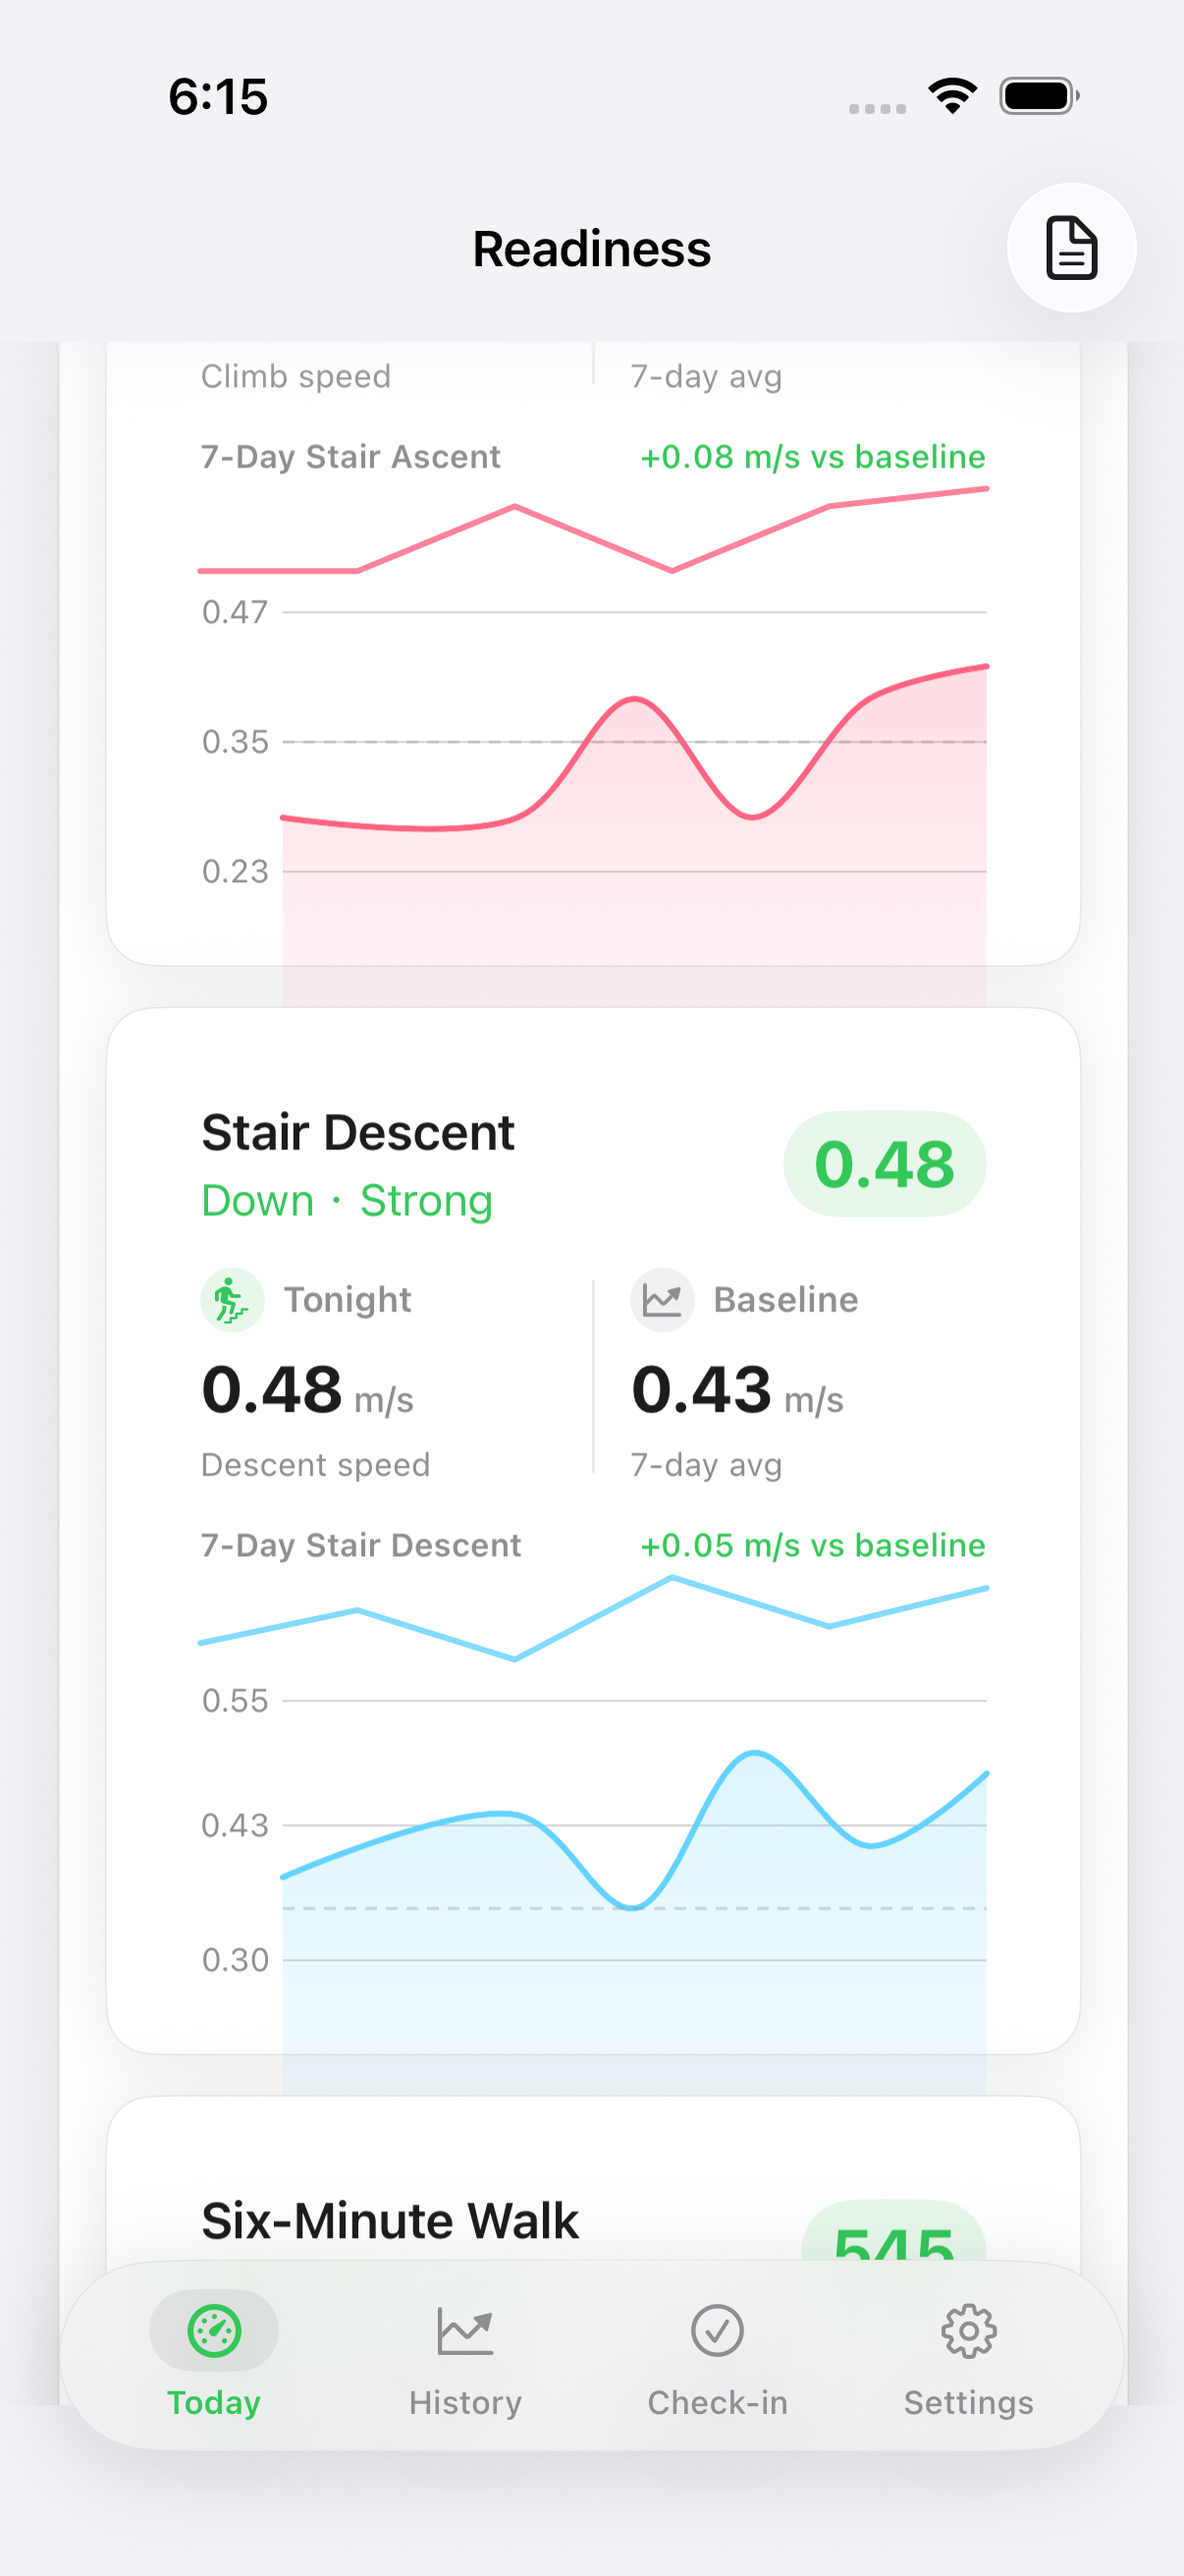
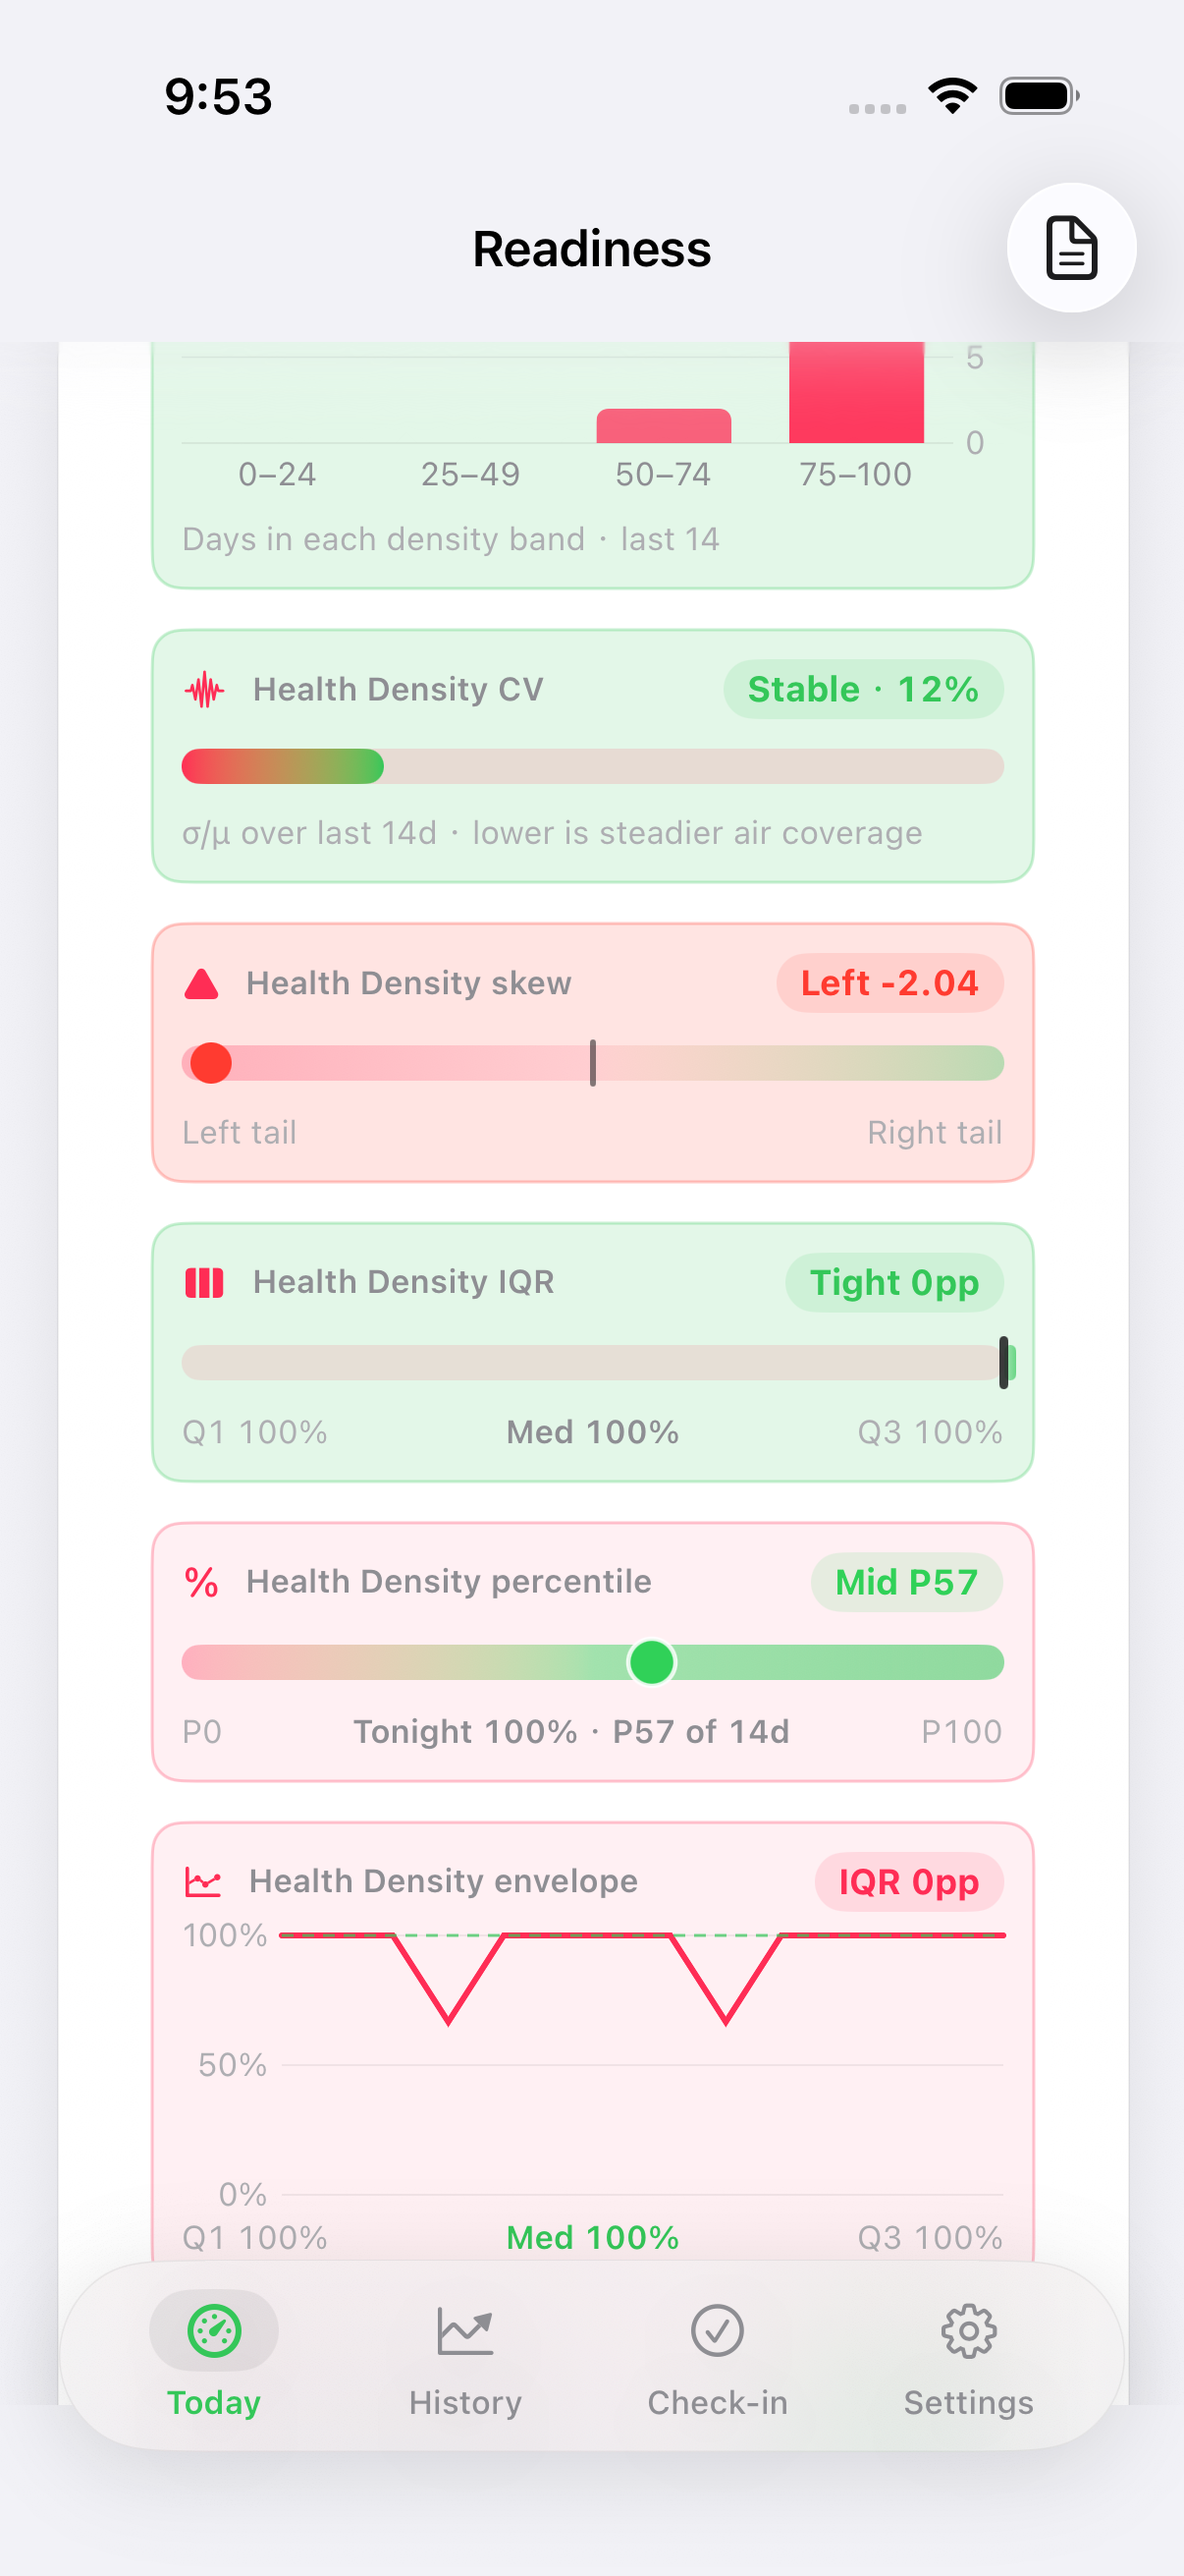
Honest #804: Density IQR meter (WHOOP wells)
Chrome-only restyle of the existing fitbit.air.density.iqr /
health.air.density.iqr container. The Q1–Q3 band already encodes
the IQR reading itself (accent track, tone-filled Q1–Q3 capsule,
and primary-text median tick); that band is left intact (not
flattened to a uniform 8/14 wash). Idle (no density > 0 in the
14d window) ghost/hairline 8/28 secondaryText; active complete
(has density, Tight, iqrPP <= 12) 14/28 optimal; active
negative (Wide, iqrPP > 22) 14/28 strain; else/partial
(Steady, 12 < iqrPP <= 22) 14/28 accent.
The verb capsule keeps its existing tone. Copy, accessibilityIdentifier,
accessibilityLabel, IQR math, and READY formula unchanged.

UITest testDensityIQR passed 128.506s, 0
failures (observer 139.397s) on iPhone 17 Pro.
testReadinessLoadSimulatorSurface passed 773.577s, 0 failures
(observer 779.183s) on iPhone 17 Pro. Proof:
.audit/verify-density-iqr.png

diff --git a/ReadinessTrackerUITests/SurfacesUITests.swift b/ReadinessTrackerUITests/SurfacesUITests.swift
@@ -18861,6 +18861,57 @@ func testPeakHeartRateCardMetricDetailNavSurface() throws {
         if meterExistsNow(skewHealth) { saveShot("verify-health-air-density-skew.png") }
     }
 
+    /// Honest #804: WHOOP wells on existing density IQR meter.
+    /// Tight path to fitbit.air.density.iqr / health.air.density.iqr
+    /// on the Air card (immediately after the skew meter). Avoids the
+    /// long testFitbitAirDataCardSurface walk that hangs on spark
+    /// swipe-down after Honest #790. Do not add extra swipes after the
+    /// meter is on-screen — a #802 follow-up that did so overscrolled
+    /// into the later stack. Never use a CONTAINS fallback (Honest
+    /// #803 run 1 was a false green: proof was Swim Strokes).
+    ///
+    /// Walk follows the landed #803 test: stay on the Today tab, use
+    /// app.swipeUp (center, clear of the tab bar), and look for the
+    /// exact SIDs only (timeout 0.1, one identifier predicate, no
+    /// CONTAINS, no title CONTAINS). Stop as soon as the IQR well is
+    /// on-screen.
+    func testDensityIQR() throws {
+        _ = app.staticTexts["Readiness"].waitForExistence(timeout: 8)
+        tapMainTab("Today")
+
+        let meter = app.descendants(matching: .any).matching(
+            NSPredicate(format: "identifier == %@ OR identifier == %@",
+                        "health.air.density.iqr",
+                        "fitbit.air.density.iqr")
+        ).firstMatch
+        let iqrFitbit = app.descendants(matching: .any)["fitbit.air.density.iqr"].firstMatch
+        let iqrHealth = app.descendants(matching: .any)["health.air.density.iqr"].firstMatch
+
+        var n = 0
+        while !meterVisible(meter) && n < 80 {
+            app.swipeUp()
+            n += 1
+        }
+
+        // If the SID exists but the well sits under the tab bar, a few
+        // upper-third nudges. Stop as soon as it is on-screen — no extra
+        // crop swipes.
+        var h = 0
+        while meterExistsNow(meter) && !meterVisible(meter) && h < 6 {
+            let window = app.windows.firstMatch
+            let start = window.coordinate(withNormalizedOffset: CGVector(dx: 0.5, dy: 0.28))
+            let end = window.coordinate(withNormalizedOffset: CGVector(dx: 0.5, dy: 0.12))
+            start.press(forDuration: 0.01, thenDragTo: end)
+            h += 1
+        }
+
+        XCTAssertTrue(meterVisible(meter),
+                      "fitbit.air.density.iqr / health.air.density.iqr")
+        saveShot("verify-density-iqr.png")
+        if meterExistsNow(iqrFitbit) { saveShot("verify-fitbit-air-density-iqr.png") }
+        if meterExistsNow(iqrHealth) { saveShot("verify-health-air-density-iqr.png") }
+    }
+
     private func meterExistsNow(_ el: XCUIElement) -> Bool {
         el.waitForExistence(timeout: 0.1)
     }

diff --git a/ReadinessTracker/Views/WhoopFeatures/FitbitAirDataCard.swift b/ReadinessTracker/Views/WhoopFeatures/FitbitAirDataCard.swift
@@ -2387,6 +2387,7 @@ struct FitbitAirDataCard: View {
 
     /// Honest #576: density IQR band — Q1–Q3 + median of last-14 dens (Google Health graphics).
     /// Honest #658: appleWatch / HealthKit uses Health pink + health.air.density.iqr (#576 parity).
+    /// Honest #804: WHOOP wells on the existing density IQR meter container.
     @ViewBuilder
     private var densityIQRMeter: some View {
         let days = Array(history.suffix(14))
@@ -2422,6 +2423,25 @@ struct FitbitAirDataCard: View {
         let meterAccent = source == .appleWatch ? Color(hex: "FF2D55") : accent
         let title = source == .appleWatch ? "Health Density IQR" : "Density IQR"
         let sid = source == .appleWatch ? SurfaceID.healthAirDensityIQR : SurfaceID.fitbitAirDensityIQR
+        // Honest #804: WHOOP wells on the existing density IQR meter container.
+        // The Q1–Q3 band already encodes the IQR reading itself (accent track,
+        // tone-filled Q1–Q3 capsule, and primary-text median tick at x = med * w)
+        // and is left intact — not flattened to a uniform 8/14 wash. The verb
+        // capsule keeps its existing tone (Tight / iqrPP <= 12 / optimal,
+        // Steady / 12 < iqrPP <= 22 / good, Wide / iqrPP > 22 / warning).
+        // Label contrast holds (no white text on a light wash).
+        // Idle (no density > 0 in the 14d window) ghost/hairline 8/28 secondaryText;
+        // active complete (has density, Tight, iqrPP <= 12) 14/28 optimal;
+        // active negative (Wide, iqrPP > 22) 14/28 strain;
+        // else/partial (Steady, 12 < iqrPP <= 22) 14/28 accent.
+        let wellIsIdle = !dens.contains(where: { $0 > 0 })
+        let wellTone: Color = wellIsIdle
+            ? RTColor.secondaryText
+            : (iqrPP <= 12 ? RTColor.optimal
+               : (iqrPP > 22 ? RTColor.strain : meterAccent))
+        let wellFill: Color = wellIsIdle
+            ? RTColor.secondaryText.opacity(0.08)
+            : wellTone.opacity(0.14)
         return VStack(alignment: .leading, spacing: 8) {
             HStack(spacing: 8) {
                 Image(systemName: "rectangle.split.3x1.fill")
@@ -2479,10 +2499,10 @@ struct FitbitAirDataCard: View {
             }
         }
         .padding(10)
-        .background(meterAccent.opacity(0.07), in: RoundedRectangle(cornerRadius: 10, style: .continuous))
+        .background(wellFill, in: RoundedRectangle(cornerRadius: 10, style: .continuous))
         .overlay(
             RoundedRectangle(cornerRadius: 10, style: .continuous)
-                .stroke(meterAccent.opacity(0.28), lineWidth: 1)
+                .stroke(wellTone.opacity(0.28), lineWidth: 1)
         )
         .accessibilityIdentifier(sid)
         .accessibilityLabel("\(title) \(verb) \(iqrPP) points, median \(medPP) percent")

diff --git a/ReadinessTracker/Design/Theme.swift b/ReadinessTracker/Design/Theme.swift
@@ -288,7 +288,7 @@ enum SurfaceID {
     static let readinessSimulatorTaskRadial = "sim.load.tasks.radial"  // Honest #573 / #760
     static let fitbitAirDensitySkew = "fitbit.air.density.skew"  // Honest #574 / #803
     static let readinessSimulatorRingDeltas = "sim.load.ring.deltas"  // Honest #575 / #761
-    static let fitbitAirDensityIQR = "fitbit.air.density.iqr"  // Honest #576
+    static let fitbitAirDensityIQR = "fitbit.air.density.iqr"  // Honest #576 / #804
     static let readinessSimulatorRingParity = "sim.load.ring.parity"  // Honest #577 / #762
     static let fitbitAirDensityPercentile = "fitbit.air.density.percentile"  // Honest #578
     static let readinessSimulatorLeverPolarity = "sim.load.lever.polarity"  // Honest #579 / #763
@@ -351,7 +351,7 @@ enum SurfaceID {
     static let healthAirDensityVolatility = "health.air.density.volatility"  // Honest #655
     static let healthAirDensityPercentile = "health.air.density.percentile"  // Honest #656
     static let healthAirDensityGini = "health.air.density.gini"  // Honest #657
-    static let healthAirDensityIQR = "health.air.density.iqr"  // Honest #658
+    static let healthAirDensityIQR = "health.air.density.iqr"  // Honest #658 / #804
     static let healthAirDensitySkew = "health.air.density.skew"  // Honest #659 / #803
     static let healthAirDensitySpan = "health.air.density.span"  // Honest #660
     static let healthAirDensityKurtosis = "health.air.density.kurtosis"  // Honest #661

diff --git a/.audit/decision-log-2026-11-04.md b/.audit/decision-log-2026-11-04.md
@@ -704,3 +704,11 @@
 | 21:25 HKT | #803 density skew meter | prove | testDensitySkew green /tmp/RT-DD803 (126.248s, 0 failures; observer 132.117s); 18 swipeUps; proof /tmp/rt-audit/verify-density-skew.png shows Health Density skew Left -2.04 (absS=2.04 > 1.0, active negative strain well), signed track intact, Health Density CV Stable · 12% above, IQR still old pink chrome below. Not the run-1 Swim Strokes false green. Starting testReadinessLoadSimulatorSurface; model=deepseek-flash | mid-ship |
 | 21:40 HKT | #803 density skew meter | prove | UITest testReadinessLoadSimulatorSurface green /tmp/RT-DD803 (831.039s, 0 failures; observer 837.171s); model=deepseek-flash |
 | 21:40 HKT | #803 density skew meter | land | proof PNG + receipt; SID fitbit.air.density.skew / health.air.density.skew; PR squash next; model=deepseek-flash |
+
+| 21:44 HKT | Honest #804 density IQR meter | model=deepseek-flash | restyle existing fitbit.air.density.iqr / health.air.density.iqr after density skew #803; WHOOP wells on the meter container only; Q1–Q3 band (accent track, tone-filled Q1–Q3 capsule, primary-text median tick) left intact (not flattened to a uniform 8/14 wash); idle (no density > 0 in 14d window) ghost/hairline 8/28 secondaryText; active complete (has density, Tight, iqrPP <= 12) 14/28 optimal; active negative (Wide, iqrPP > 22) 14/28 strain; else/partial (Steady, 12 < iqrPP <= 22) 14/28 accent; verb capsule keeps existing tone; mechanical pattern-copy of #803 container chrome applied locally (no separate model iterate needed) | mid-ship |
+| 21:44 HKT | Honest #804 density IQR meter | prove | starting build-for-testing /tmp/RT-DD804; model=deepseek-flash | mid-ship |
+| 21:50 HKT | #804 density IQR meter | prove | starting tight UITest testDensityIQR /tmp/RT-DD804; model=deepseek-flash | mid-ship |
+| 21:53 HKT | #804 density IQR meter | prove | UITest testDensityIQR green /tmp/RT-DD804 (128.506s, 0 failures; observer 139.397s); proof /tmp/rt-audit/verify-density-iqr.png (health.air.density.iqr); starting testReadinessLoadSimulatorSurface; model=deepseek-flash | mid-ship |
+
+| 22:07 HKT | #804 density IQR meter | prove | UITest testReadinessLoadSimulatorSurface green /tmp/RT-DD804 (773.577s, 0 failures; observer 779.183s); model=deepseek-flash |
+| 22:07 HKT | #804 density IQR meter | land | proof PNG + receipt; SID fitbit.air.density.iqr / health.air.density.iqr; PR squash next; model=deepseek-flash |

diff --git a/.audit/density-iqr.md b/.audit/density-iqr.md
@@ -1,0 +1,10 @@
+# Honest #576 / #658 / #804: Density IQR meter (WHOOP wells)
+
+Fitbit/Health air density Q1–Q3 + median IQR meter immediately after the skew meter on the Air card (below heatmap + WoW + forecast + streak + spark + hist + CV + skew; next unstyled meter body in the hist → gain/pain stack is the percentile meter).
+Chrome-only WHOOP wells on the existing Honest #576 / #658 IQR meter container.
+The Q1–Q3 band already encodes the IQR reading itself (accent track, tone-filled Q1–Q3 capsule, and primary-text median tick at x = med * w). That band is left intact — not flattened to a uniform 8/14 wash.
+Idle (no density > 0 in the 14d window) = ghost/hairline 8/28 secondaryText; active complete (has density, Tight, iqrPP <= 12) = 14/28 optimal; active negative (Wide, iqrPP > 22) = 14/28 strain; else/partial (Steady, 12 < iqrPP <= 22) = 14/28 accent.
+The verb capsule keeps its existing tone (Tight / iqrPP <= 12 / optimal, Steady / 12 < iqrPP <= 22 / good, Wide / iqrPP > 22 / warning). Label contrast holds (no white text on a light wash).
+Copy, accessibilityIdentifier, accessibilityLabel, IQR math, and READY formula unchanged. No new SID.
+SurfaceID: `fitbit.air.density.iqr` / `health.air.density.iqr`
+Proof: `.audit/verify-density-iqr.png`

diff --git a/.audit/features/density-iqr.md b/.audit/features/density-iqr.md
@@ -1,0 +1,8 @@
+# Honest #576 / #658 / #804: Density IQR meter (WHOOP wells)
+
+Chrome-only WHOOP wells on the existing density IQR meter (`fitbit.air.density.iqr` / `health.air.density.iqr`).
+The Q1–Q3 band already encodes the IQR reading itself (accent track, tone-filled Q1–Q3 capsule, and primary-text median tick) and is left intact (not flattened to a uniform 8/14 wash).
+Idle (no density > 0 in the 14d window) = ghost/hairline 8/28 secondaryText; active complete (has density, Tight, iqrPP <= 12) = 14/28 optimal; active negative (Wide, iqrPP > 22) = 14/28 strain; else/partial (Steady, 12 < iqrPP <= 22) = 14/28 accent.
+Verb capsule keeps its existing tone. Copy, accessibilityIdentifier, accessibilityLabel, IQR math, and READY formula unchanged.
+SurfaceID: `fitbit.air.density.iqr` / `health.air.density.iqr`
+Proof: UITest → `.audit/verify-density-iqr.png`

diff --git a/.audit/features/fitbit-air-density-iqr.md b/.audit/features/fitbit-air-density-iqr.md
@@ -1,5 +1,6 @@
-# Honest #576: Fitbit Air density IQR band
+# Honest #576 / #804: Fitbit Air density IQR meter
 
-Q1–Q3 + median of last-14 dens (Google Health graphics).
+Q1–Q3 + median of last-14 dens (Google Health graphics). Chrome-only WHOOP wells on the existing IQR meter container.
+Idle (no density > 0) ghost/hairline 8/28 secondaryText; complete (has density, Tight, iqrPP <= 12) 14/28 optimal; negative (Wide, iqrPP > 22) 14/28 strain; else/partial (Steady, 12 < iqrPP <= 22) 14/28 accent. Q1–Q3 band (accent track, tone-filled capsule, median tick) left intact.
 SurfaceID: `fitbit.air.density.iqr`
-Proof: `.audit/verify-fitbit-air-density-iqr.png`
+Proof: `.audit/verify-density-iqr.png`

diff --git a/.audit/features/health-air-density-iqr.md b/.audit/features/health-air-density-iqr.md
@@ -1,4 +1,7 @@
-# Health Density IQR
-Today → Health Air → Density IQR meter (Health pink)
-UITest testFitbitAirDataCardSurface
-SID health.air.density.iqr
+# Honest #658 / #804: Health Air density IQR
+
+Fitbit #576 / #804 parity for appleWatch / HealthKit — Health pink density IQR meter, chrome-only WHOOP wells on the existing container.
+Idle (no density > 0) ghost/hairline 8/28 secondaryText; complete (has density, Tight, iqrPP <= 12) 14/28 optimal; negative (Wide, iqrPP > 22) 14/28 strain; else/partial (Steady, 12 < iqrPP <= 22) 14/28 accent. Q1–Q3 band left intact.
+SurfaceID: `health.air.density.iqr`
+Proof: `.audit/verify-density-iqr.png`
+UITest: `testDensityIQR`

diff --git a/.audit/health-air-density-iqr.md b/.audit/health-air-density-iqr.md
@@ -1,5 +1,5 @@
-# Honest #658: Health Air density IQR
+# Honest #658 / #804: Health Air density IQR
 
-Fitbit #576 parity for appleWatch / HealthKit — Health pink Q1–Q3 + median IQR band (Tight/Steady/Wide).
+Fitbit #576 / #804 parity for appleWatch / HealthKit — Health pink Q1–Q3 + median IQR band, chrome-only WHOOP wells.
 SurfaceID: `health.air.density.iqr`
-Proof: `.audit/verify-health-air-density-iqr.png`
+Proof: `.audit/verify-density-iqr.png`

diff --git a/.audit/fitbit-air-density-iqr.md b/.audit/fitbit-air-density-iqr.md
@@ -1,2 +1,5 @@
-Honest #576: Fitbit Air density IQR band
-SurfaceID fitbit.air.density.iqr
+# Honest #576 / #804: Fitbit Air density IQR meter
+
+Q1–Q3 + median of last-14 dens. Chrome-only WHOOP wells on the existing IQR meter container.
+SurfaceID: `fitbit.air.density.iqr`
+Proof: `.audit/verify-density-iqr.png`
